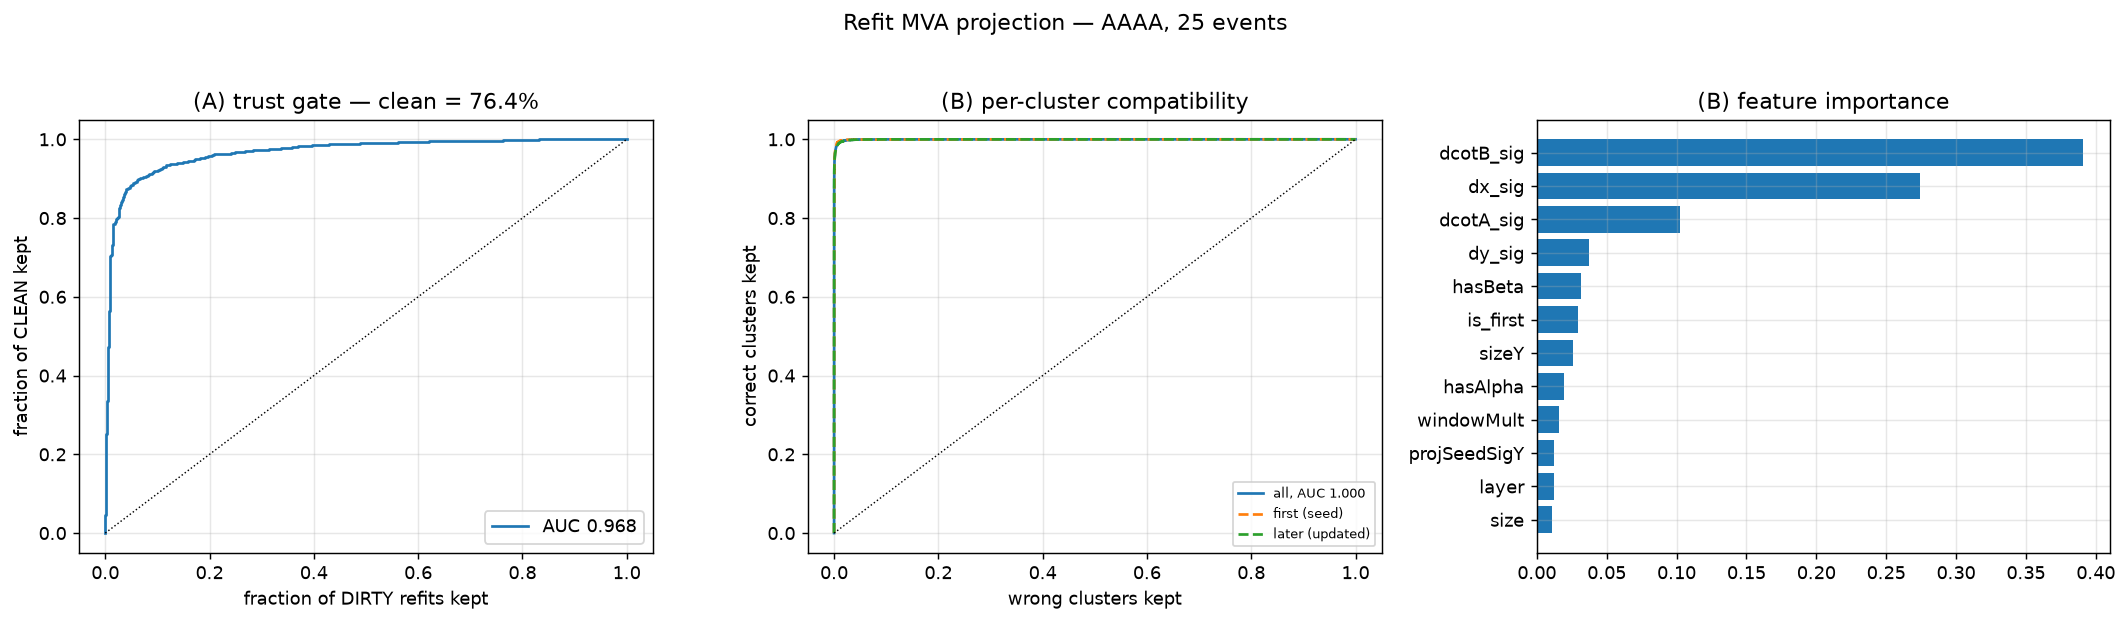
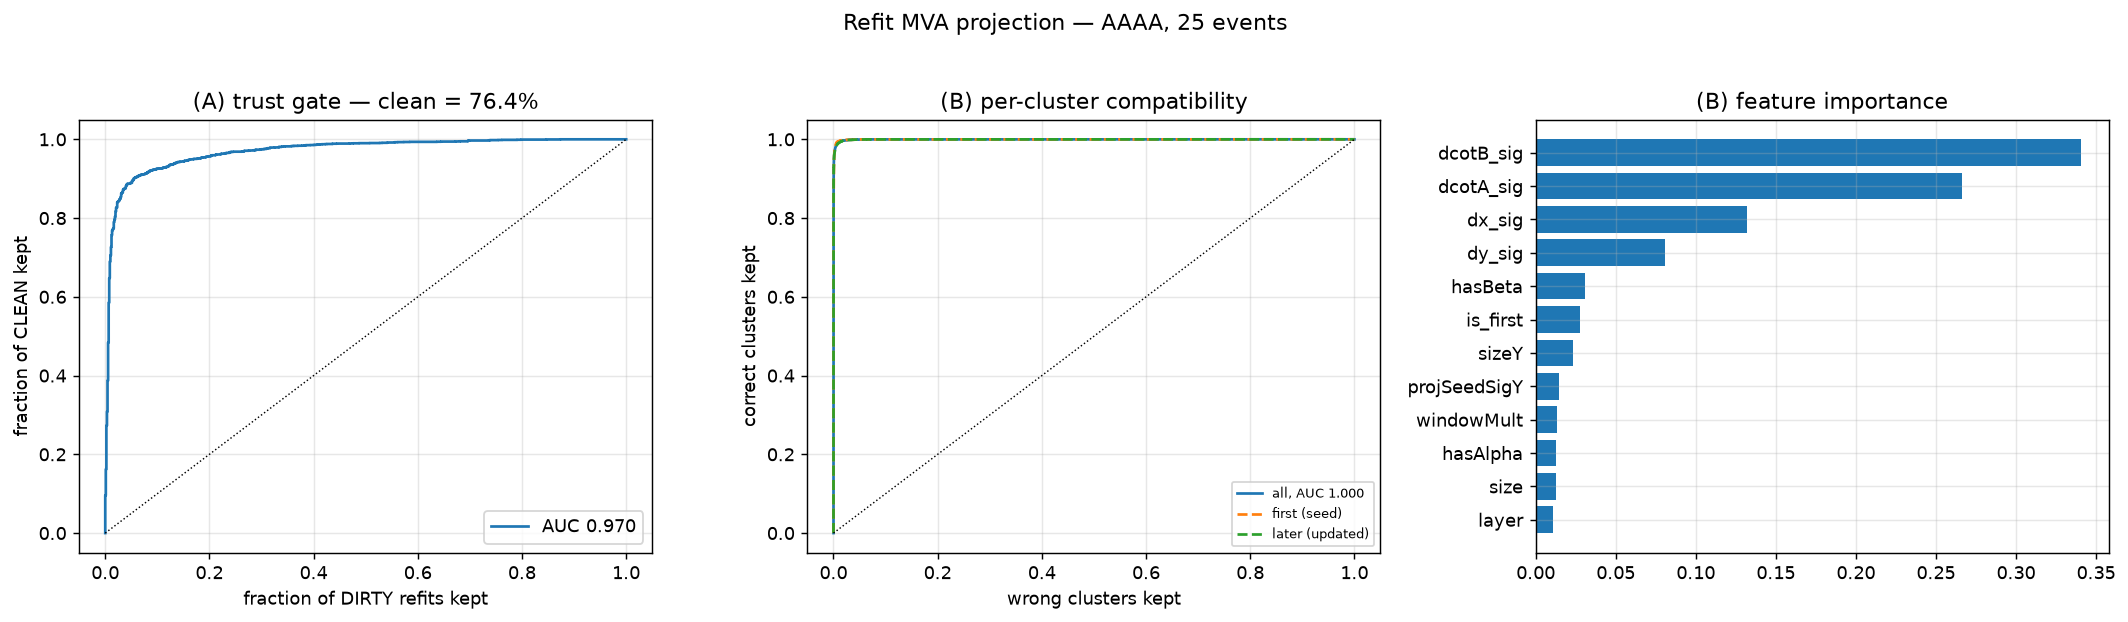
Seed the MVA, and trace an AUC shift to the leak closing rather than to noise
SEEDED. subsample/colsample_bytree were stochastic with no random_state, so the
same input gave a different answer each run. Now seeded, and the script REPORTS
the spread over four seeds so a reader knows what a difference has to beat:
sigma 0.0003 on the trust-gate AUC.

That measurement then falsified my own first explanation. The trust-gate AUC had
moved 0.9773 -> 0.9693 and I assumed seed noise; at sigma 0.0003 that is a 25
sigma move and cannot be. Traced properly:

  v3 (leak era, noise clusters carried NO angle)   AUC 0.9773
  v7 (noise payload in place)                      AUC 0.9683
  v8 (v7 + new sigma columns, tp renames)          AUC 0.9697

v7 and v8 have BIT-IDENTICAL trust-gate inputs, so those two agree to seed noise
as they must. v3 differs because closing the leak changed the refit itself:
chi2IncAlphaTot 2.972 -> 3.133 and shiftChi2 21.8 -> 22.36, since noise clusters
now contribute an angle chi2 like any other candidate. Previously they did not,
so chi2IncAlphaTot implicitly counted "how many angle-less clusters did I pick"
-- and angle-less meant unlinked meant wrong. The trust gate was reading a truth
proxy through the chi2 totals, one level removed from where the leak was found.

So 0.969 is the honest trust-gate AUC and 0.977 is withdrawn. The working points
barely move (keep 90% of clean refits -> 70.1% of tracks at purity 0.982 against
a 0.764 baseline), so no conclusion changes; only the headline number does.
[…]

diff --git a/eval_refitq/mva/refit_mva_projection.py b/eval_refitq/mva/refit_mva_projection.py
@@ -125,8 +125,15 @@ def load(paths):
     return X, T, K, cfg, n_ev
 
 
-def oof_score(Xf, y, groups, n_estimators=220, max_depth=5):
-    """Out-of-fold XGB score. Folds split on TRACK so a track never trains on itself."""
+def oof_score(Xf, y, groups, n_estimators=220, max_depth=5, seed=0):
+    """Out-of-fold XGB score. Folds split on TRACK so a track never trains on itself.
+
+    SEEDED. subsample/colsample_bytree are stochastic, so without a fixed seed the
+    same input gives a different AUC each run -- measured 0.9773 vs 0.9693 on
+    IDENTICAL events, which is larger than several differences this study is meant
+    to resolve. Any comparison between configurations has to be reproducible before
+    it can mean anything.
+    """
     pred = np.zeros(len(y))
     fold = groups % NFOLD
     for f in range(NFOLD):
@@ -135,7 +142,7 @@ def oof_score(Xf, y, groups, n_estimators=220, max_depth=5):
             continue
         m = xgb.XGBClassifier(n_estimators=n_estimators, max_depth=max_depth, learning_rate=0.08,
                               subsample=0.8, colsample_bytree=0.8, eval_metric="logloss",
-                              tree_method="hist", n_jobs=8)
+                              tree_method="hist", n_jobs=8, random_state=seed + f)
         m.fit(Xf[tr], y[tr])
         pred[te] = m.predict_proba(Xf[te])[:, 1]
     return pred, m
@@ -173,8 +180,13 @@ def main():
     print(f"\n(A) trust gate: {len(yA)} refit tracks, clean fraction {yA.mean():.4f}")
     pA, _ = oof_score(FA, yA, gA)
     aucA = roc_auc_score(yA, pA)
-    print(f"    out-of-fold AUC = {aucA:.4f}")
-    recA = {"n_tracks": int(len(yA)), "clean_fraction": float(yA.mean()), "auc": float(aucA),
+    # Seed spread: how much does the answer move on IDENTICAL data? Any claimed
+    # difference between configurations must exceed this to be real.
+    spread = [roc_auc_score(yA, oof_score(FA, yA, gA, seed=100 * k)[0]) for k in (1, 2, 3)]
+    recA_spread = float(np.std(spread + [aucA]))
+    print(f"    out-of-fold AUC = {aucA:.4f}   (seed spread over 4 seeds: "
+          f"{min(spread + [aucA]):.4f}-{max(spread + [aucA]):.4f}, sigma {recA_spread:.4f})")
+    recA = {"auc_seed_sigma": recA_spread, "n_tracks": int(len(yA)), "clean_fraction": float(yA.mean()), "auc": float(aucA),
             "features": feats_A + ["chi2ITSeedMinusRefit"], "working_points": []}
     for keep in (0.95, 0.90, 0.80, 0.60):
         cut = np.quantile(pA[yA], 1 - keep)
